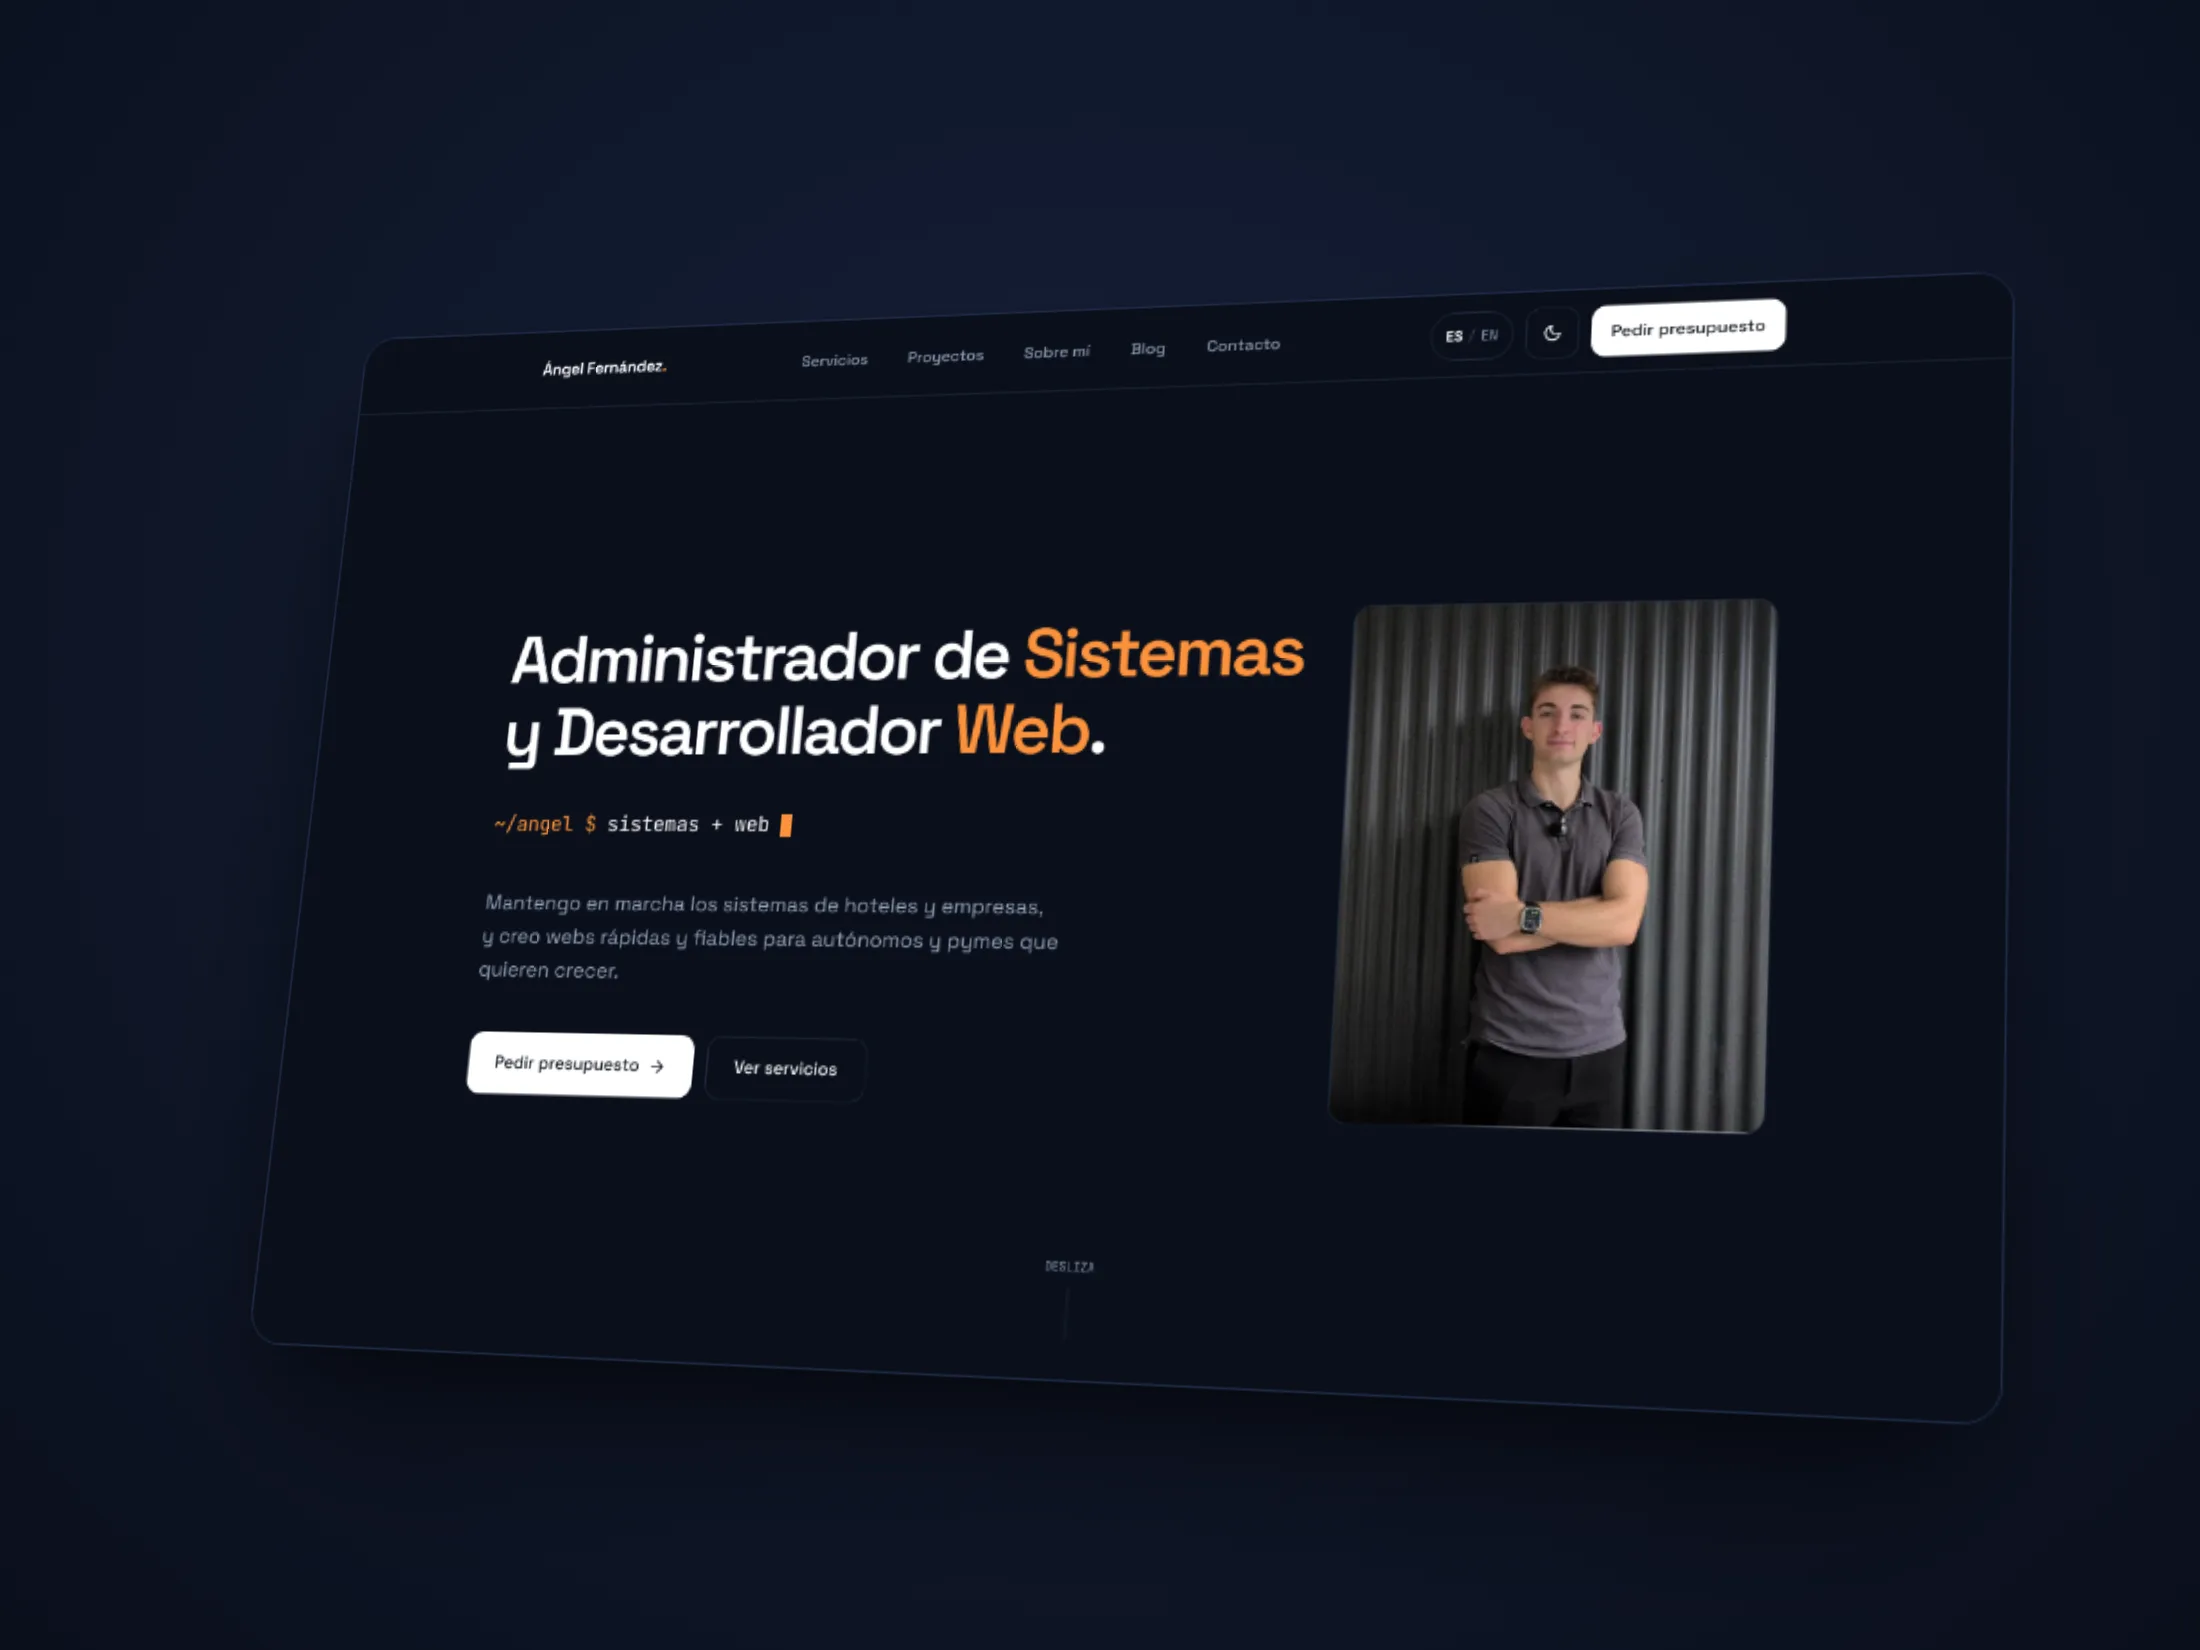
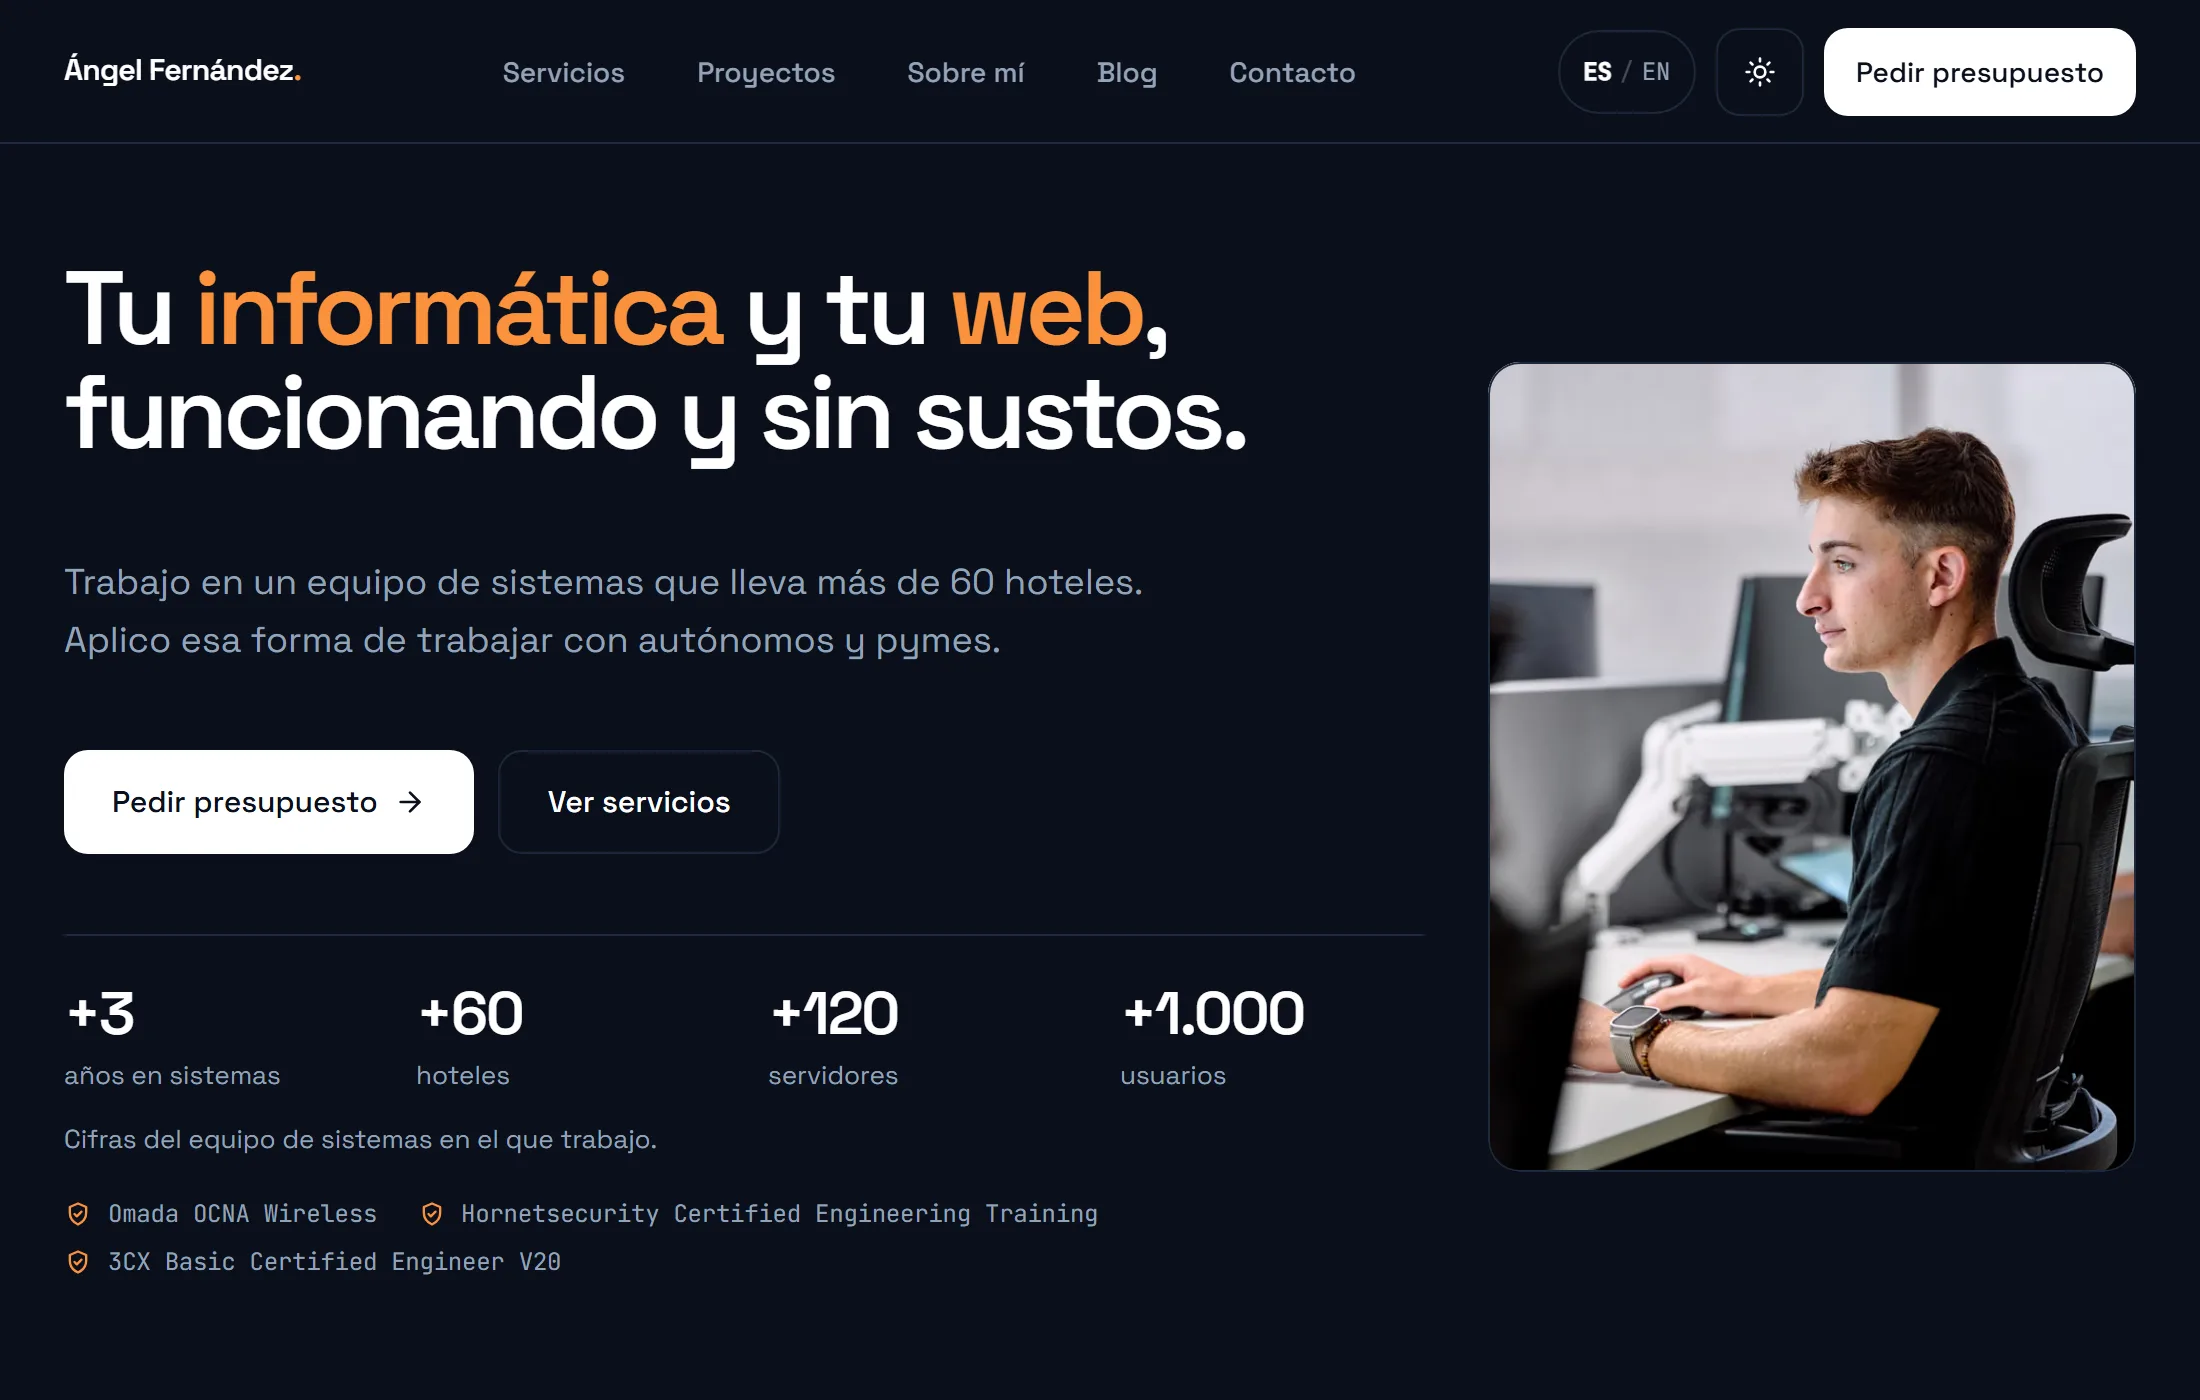
feat(portada): rejilla de proyectos en escritorio, textos de servicios, portadas this-site y línea de Speed Insights

diff --git a/components/portfolio.tsx b/components/portfolio.tsx
@@ -54,21 +54,21 @@ export function Portfolio({ projects }: { projects: ProjectCard[] }) {
           </p>
         </Reveal>
 
-        {/* Una sola fila deslizable con botones: 1 card y un asomo de la siguiente en móvil, 2 en
-            tablet y 3 en escritorio. El padding vertical deja sitio a la sombra, que el
+        {/* Una sola fila deslizable con botones: 1 card y un asomo de la siguiente en móvil y 2 en
+            tablet. Desde lg, rejilla de 2 columnas con todas las cards a la vista. El padding vertical deja sitio a la sombra, que el
             overflow recortaría. */}
         <div
           ref={trackRef}
-          className="-mx-6 snap-x snap-mandatory overflow-x-auto px-6 py-8 [-ms-overflow-style:none] [scrollbar-width:none] md:-mx-8 md:px-8 [&::-webkit-scrollbar]:hidden"
+          className="-mx-6 snap-x snap-mandatory overflow-x-auto px-6 py-8 [-ms-overflow-style:none] [scrollbar-width:none] md:-mx-8 md:px-8 lg:mx-0 lg:snap-none lg:overflow-visible lg:px-0 [&::-webkit-scrollbar]:hidden"
           style={{ scrollPaddingInline: "1.5rem" }}
         >
-          <RevealGroup className="flex gap-5" stagger={0.08}>
+          <RevealGroup className="flex gap-5 lg:grid lg:grid-cols-2 lg:gap-6" stagger={0.08}>
             {projects.map((p) => {
               const title = t(`portfolio.${p.key}Title`);
               return (
                 <RevealItem
                   key={p.key}
-                  className="flex shrink-0 basis-[85%] snap-start sm:basis-[calc((100%-1.25rem)/2)] lg:basis-[calc((100%-2.5rem)/3)]"
+                  className="flex shrink-0 basis-[85%] snap-start sm:basis-[calc((100%-1.25rem)/2)] lg:basis-auto"
                 >
                   {/* Cada card abre la página del proyecto (app/proyectos/[slug]). */}
                   <Link
@@ -82,7 +82,7 @@ export function Portfolio({ projects }: { projects: ProjectCard[] }) {
                       <ProjectCover
                         project={p}
                         alt={p.coverAlt?.[locale] ?? title}
-                        sizes="(min-width: 1024px) 370px, (min-width: 640px) 50vw, 85vw"
+                        sizes="(min-width: 1024px) 560px, (min-width: 640px) 50vw, 85vw"
                         className="h-52"
                       />
                       <div className="flex flex-1 flex-col p-6">
@@ -139,7 +139,7 @@ export function Portfolio({ projects }: { projects: ProjectCard[] }) {
         </div>
 
         {(canPrev || canNext) && (
-          <div className="flex justify-end gap-3">
+          <div className="flex justify-end gap-3 lg:hidden">
             {(["prev", "next"] as const).map((dir) => (
               <button
                 key={dir}

diff --git a/lib/legal.ts b/lib/legal.ts
@@ -24,7 +24,7 @@ export type LegalPage = {
   content: Record<Locale, LegalContent>;
 };
 
-const UPDATED = "2026-11-11";
+const UPDATED = "2026-11-12";
 
 const holderEs = [
   `**Titular:** ${LEGAL.nombre}`,
@@ -308,7 +308,7 @@ export const LEGAL_PAGES: LegalPage[] = [
             blocks: [
               "Al pulsar enviar, el formulario de contacto manda los datos a mi servidor y de ahí a Resend, que los entrega a mi correo. No instala cookies en tu navegador. Más información en la [política de privacidad](/privacidad).",
               "La web está alojada en Vercel. Como cualquier alojamiento, puede tratar datos técnicos de la conexión, como la dirección IP, en sus registros de servidor. Esto no instala cookies. Los detalles están en la [política de privacidad](/privacidad).",
-              "Vercel Speed Insights mide de forma anónima el rendimiento de las páginas públicas (tiempos de carga, tipo de dispositivo y navegador, país). No se usa para identificarte ni para hacer seguimiento entre sitios, y no se carga en el área privada.",
+              "Vercel Speed Insights mide de forma anónima el rendimiento de las páginas públicas (tiempos de carga, tipo de dispositivo y navegador, país). No se usa para identificarte ni para hacer seguimiento entre sitios, no crea cookies en tu navegador y no se carga en el área privada.",
             ],
           },
           {
@@ -351,7 +351,7 @@ export const LEGAL_PAGES: LegalPage[] = [
             blocks: [
               "When you press send, the contact form sends your data to my server and from there to Resend, which delivers it to my email. It sets no cookies in your browser. More information in the [privacy policy](/privacidad).",
               "The website is hosted on Vercel. Like any hosting provider, it may process technical connection data, such as the IP address, in its server logs. This does not set cookies. Details are in the [privacy policy](/privacidad).",
-              "Vercel Speed Insights anonymously measures the performance of the public pages (load times, device type and browser, country). It is not used to identify you or to track you across sites, and it is not loaded in the private area.",
+              "Vercel Speed Insights anonymously measures the performance of the public pages (load times, device type and browser, country). It is not used to identify you or to track you across sites, it sets no cookies in your browser and it is not loaded in the private area.",
             ],
           },
           {

diff --git a/CLAUDE.md b/CLAUDE.md
@@ -107,7 +107,7 @@ Cada card de "Proyectos recientes" abre `/proyectos/[slug]` (`app/proyectos/[slu
 - **Ficha rápida (`facts`)**: 3 datos `{ label, value }` por idioma (Tipo, Qué hice o Alcance, Estado o Resultado), que se pintan en la cabecera entre la entradilla y la fecha. Obligatoria en cada proyecto nuevo.
 - **Servicio (`service`)**: `"web"` o `"sistemas"`. Al final del artículo, antes de "Siguiente proyecto", sale la card de llamada al servicio (textos en `project.cta.*` de los JSON) con botón a `/servicios/[service]` y enlace "Pedir presupuesto". La card es `components/service-cta.tsx`, compartida con el blog. Los H2 del artículo van sin número ni letra capital, igual que el blog y las páginas legales (`SectionHeading` con `n` opcional, ya nadie lo pasa).
 - **Portada**: la foto que suba Ángel se convierte a WebP (máx. 2200 px de ancho) en `public/projects/`, más una imagen para redes de 1200x630 en JPG (`ogImage`). Los originales pesados no se dejan en `public/`. Un SVG se puede usar tal cual (revisar que no tenga scripts, em dashes ni animaciones sin `prefers-reduced-motion`).
-- **Orden**: el proyecto nuevo se añade a `PROJECTS`; la card, la página, el "Siguiente proyecto" y el sitemap salen solos. El orden del array es el de la home: trabajo para clientes y producto propio primero, el homelab el último. En móvil (menos de `sm`) las cards van apiladas; desde `sm` siguen en la fila deslizable.
+- **Orden**: el proyecto nuevo se añade a `PROJECTS`; la card, la página, el "Siguiente proyecto" y el sitemap salen solos. El orden del array es el de la home: trabajo para clientes y producto propio primero, el homelab el último. En la home, por debajo de `lg` las cards van en una fila deslizable con botones (1 card y un asomo de la siguiente en móvil, 2 en tablet; decisión de Ángel del 2026-11-12) y desde `lg` en una rejilla de 2 columnas con todas a la vista.
 - **Resumen del caso (`caseStudy`)**: campo opcional por proyecto y por idioma con `context`, `role`, `results` (antes y después), `snippet` y `quote`. Se pinta al inicio del artículo y solo lo que tenga contenido. Cifras y cita tienen que ser reales (la cita, con permiso del cliente) y el fragmento va saneado. En RDS solo están `context` y `role`, sacados del texto del artículo.
 - **Portadas**: `coverPosition: "top"` para capturas de pantalla (FlexGrip, Prompt Vault) y el centro por defecto para fotos; todas llevan el mismo borde interior. Las portadas siguen siendo de tipos distintos (ilustración, capturas, foto): unificarlas del todo pide imágenes nuevas.
 
@@ -123,7 +123,7 @@ Cada card de Servicios abre su propia página: `/servicios/sistemas` y `/servici
 
 Estructura de la página: cabecera (icono, H1, intro de 2 o 3 párrafos a 65 caracteres, botón "Pedir presupuesto" a `/#contact` y nota de la llamada gratuita), cards de grupos (título, `lead` opcional, 3 puntos y tecnologías como texto en mono separadas por " · "), y las secciones **opcionales por servicio**: proyectos reales (`projects`, solo `web`), "Cómo podemos trabajar" (`modes`, 6 cards sin números ni iconos) y preguntas frecuentes (`faq`, `<details>` nativos). Después "Cómo trabajo" (`components/process.tsx`, textos en `process.*` de los JSON), "Otro servicio" y el cierre. Los fondos alternan solos según el orden en que se pintan (función `bg()` en `services-page.tsx`). Sin números fantasma ni precios.
 
-Proyectos reales (`components/real-projects.tsx`): tres cards en fila con el diseño de las de la home (portada con zoom discreto, sin tilt). `projects` es una lista de slugs de `PROJECTS`, y `"self"` pinta la card de esta misma web (portada `public/projects/this-site.webp` y `this-site-dark.webp`, captura del hero que habrá que rehacer si cambia el hero; enlaza a `/`; su texto va en `servicesPage.thisSite*`). Título, descripción y etiqueta salen de `portfolio.*`, no se copian. `modes` y `faq` los usan las dos páginas. La portada `this-site.webp` es una captura del hero antiguo (con la foto en rectángulo) y habrá que rehacerla.
+Proyectos reales (`components/real-projects.tsx`): tres cards en fila con el diseño de las de la home (portada con zoom discreto, sin tilt). `projects` es una lista de slugs de `PROJECTS`, y `"self"` pinta la card de esta misma web (portada `public/projects/this-site.webp` y `this-site-dark.webp`, captura del hero que habrá que rehacer si cambia el hero; enlaza a `/`; su texto va en `servicesPage.thisSite*`). Título, descripción y etiqueta salen de `portfolio.*`, no se copian. `modes` y `faq` los usan las dos páginas. Las portadas `this-site.webp` y `this-site-dark.webp` son capturas del hero actual (2200x1400, hechas el 2026-11-12); hay que rehacerlas si el hero cambia.
 
 Los "casos reales" (ransomware y sistema saturado) se quitaron de Sobre mí y de `/servicios/sistemas` a propósito, junto con `real-cases.tsx` y las claves `about.case*`: no los vuelvas a poner sin consultar. El JSON-LD de las páginas con `faq` añade un nodo `FAQPage` (`serviceJsonLd` en `lib/seo.ts`). `process.tsx` es un esquema visual de 6 pasos, de la primera llamada a la entrega: línea de tiempo horizontal desde `lg` (la de acento se dibuja con `scaleX` al entrar, los bordes de los nodos se encienden a su paso) y vertical por debajo (tramos con `scaleY`). Es un `<ol>` (`RevealGroup as="ol"`), usa `data-reveal` para verse completo sin JS y deja el reduced motion a `MotionConfig`. Debajo lleva el bloque del área de clientes con una maqueta en HTML y CSS de una tarjeta del portal (`aria-hidden`, con "Vista de ejemplo" y datos de muestra, nunca de un cliente real; el texto alternativo va en un `sr-only`) y el enlace a `/login`.
 
